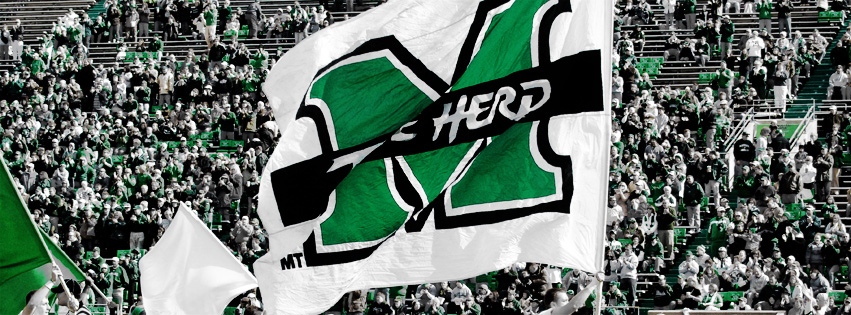
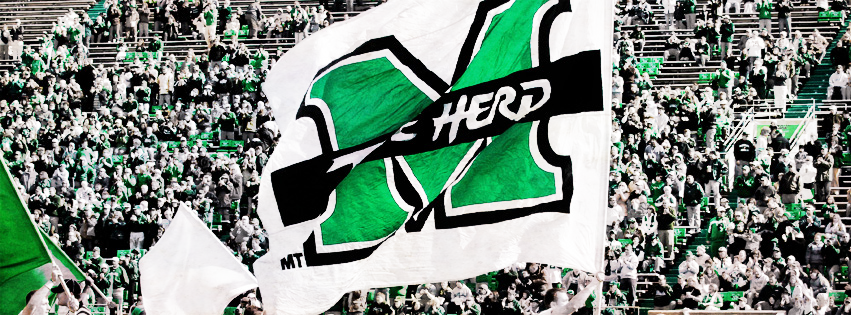
changes

diff --git a/index.html b/index.html
@@ -221,7 +221,7 @@
                                                 I have a diverse set of skills, ranging from design, to HTML + CSS + Javascript/JQuery + NodeJS + MongoDB.</p>
                                             </div>
                                         <div class="col-lg-4 col-sm-6">
-                                    <img class="herd-fluid hvr-bob" style="margin-top: 50px;" src="Assets/Images/marshallfootball.png">
+                                    <img class="herd-fluid hvr-bob" style="margin-top: 50px;" src="Assets/Images/marshall-collage.png">
                                 </div>
                           </div>
             <div class="row">

diff --git a/Assets/Javascript/click.js b/Assets/Javascript/click.js
@@ -7,7 +7,7 @@ $(document).ready(function(){
     $(document).scroll(function() {
       scroll_start = $(this).scrollTop();
       if(scroll_start > offset.top) {
-        $('.navbar').css('background', 'url("Assets/Images/superherogif.gif")');
+        $('.navbar').css('background', 'url("Assets/Images/supercollagegif.gif")');
         $('.projects').css({"-webkit-animation": "fadeIn 5s", "animation": "fadeIn 5s"});
         $('.about').css({"-webkit-animation": "fadeIn 5s", "animation": "fadeIn 5s"});
         $('.contact').css({"-webkit-animation": "fadeIn 5s", "animation": "fadeIn 5s"});
